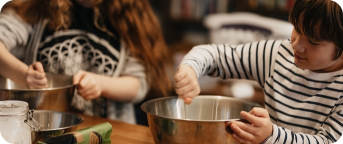
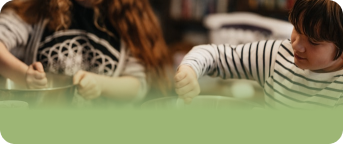
hompe page done

diff --git a/index.html b/index.html
@@ -9,33 +9,58 @@
   </head>
 
   <body>
-    <header class="flex column center justify-center yellow-gradient">
-      <a href=""><img id="logo" src="assets/Logo PNG.png" alt="Logo TreeHouse" href="index.html"></a>
-    </header>
+    <section class="flex row">
+      <img class="big" src="assets/bigbanner.png" alt="" />
 
-    <main class="">      
-      <section class="centralized flex column center">
-        <div class="banner">
-          <div class="img-stack">
-            <h1 class="item-top">A escola de inglês <br> que vai até você.</h1>
-            <img class="item-mid" src="assets/Vector yellow.png" alt="">
-            <img class="item-bottom" src="assets/kidtoys.jpg" alt="The hands of a kid playing with a lego toy">
-          </div>
-          
+      <div class="column">
+        <header class="flex column center justify-center yellow-gradient">
+          <a href=""
+            ><img
+              id="logo"
+              src="assets/Logo PNG.png"
+              alt="Logo TreeHouse"
+              href="index.html"
+          /></a>
+        </header>
 
-          <p>A Tree House é uma escola de Inglês inovadora em Curitiba que traz conforto e comodidade para que suas crinaças aprendam inglês com qualidade. Nosso metodo extremamente focado em atividades lúdicas ajuda as crianças a aprenderem inglês sem saber que estão dentro de uma aula, o que torna o ensino muito mais fácil, rápido e assertivo.</p>
-        </div>
+        <main class="grid-display">
+          <h1 class="title">
+            A escola de inglês <br />
+            que vai até você.
+          </h1>
 
-        <div>
+          <p class="text">
+            A Tree House é uma escola de Inglês inovadora em Curitiba que traz
+            conforto e comodidade para que suas crinaças aprendam inglês com
+            qualidade. Nosso metodo extremamente focado em atividades lúdicas
+            ajuda as crianças a aprenderem inglês sem saber que estão dentro de
+            uma aula, o que torna o ensino muito mais fácil, rápido e assertivo.
+          </p>
+        </main>
+
+        <div class="flex column">
           <h1>O que você procura?</h1>
-
-          <h2>Aulas em Casa</h2>
-          <a href="parents.html"><img src="assets/imgboy.png" alt="Kids cooking and having fun at home"></a>
-
-          <h2>Aulas na Escola</h2>
-          <a href="schools.html"><img src="assets/imgschool.png" alt="Kids studying at school"></a>
+          <div class="flex row space-around">
+            
+  
+            <div class="container">
+              <figcaption>Aulas em Casa</figcaption>
+                <a href="parents.html"
+                ><img
+                  src="assets/imgboy.png"
+                  alt="Kids cooking and having fun at home"
+              /></a>
+            </div>
+  
+            <div class="container">
+              <figcaption>Aulas na Escola</figcaption>
+                <a href="schools.html"
+                ><img src="assets/imgschool.png" alt="Kids studying at school"
+              /></a>
+            </div>
+          </div>
         </div>
-      </section>
+        
 
         <footer class="flex column">
           <h1 class="margin-center">Fale com a gente:</h1>
@@ -43,12 +68,12 @@
             <a href=""><button class="orange-btn">WhatsApp</button></a>
             <a href=""><button class="orange-btn">Instagram</button></a>
           </div>
-          <p class="margin-center">TreeHouse &copy 2023 - Bruno Schmaiske Quoos - <a href="site-plan/site-plan.html">Site Plan</a></p>
-
+          <p class="margin-center">
+            TreeHouse &copy 2023 - Bruno Schmaiske Quoos -
+            <a href="site-plan/site-plan.html">Site Plan</a>
+          </p>
         </footer>
-
-
-      
-    </main>
+      </div>
+    </section>
   </body>
 </html>

diff --git a/styles/index-styles.css b/styles/index-styles.css
@@ -1,6 +1,9 @@
+@import url('https://fonts.googleapis.com/css2?family=Delius&family=Poppins:wght@100;200;400&display=swap');
+
 * {
     margin: 0;
     padding: 0;
+    font-family: 'Poppins', sans-serif;
 }
 
 
@@ -15,7 +18,7 @@
 /* Header and banner */
 header {
     height: 25vh;
-    width: 100vw;
+    width: 100%;
 }
 
 #logo {
@@ -41,7 +44,9 @@ header {
 }
 .space-around{
     justify-content: space-around;
-
+}
+.space-between{
+    justify-content: space-between;
 }
 .justify-center{
     justify-content: center;
@@ -54,38 +59,56 @@ header {
 }
 
 
-/* Image Stacked Banner*/
-.img-stack{
+.big{
+    height: 100vh;
+    float: left;
+}
+
+/* Content grid*/
+.grid-display {
     display: grid;
     grid-template-columns: repeat(10, 1fr);
+    justify-content: space-around;
+    align-content: center;
+}
+
+.title {
+    grid-column: 2/10;
+    grid-row: 1/1;
+    font-size: 5em;
+    font-family: 'Delius', cursive;
+}
+.text {
+    marging-top: 50px;
+    grid-column: 2/10;
+    grid-row: 2/3;
+}
+
+
+h1{
+    margin: auto;
+}
+/* Image buttons */
+
+.container {
+    display: inline-block;
     position: relative;
-    align-items: end;
+    align-content: center;
 }
 
-.item-top{
-    margin-bottom: 10px;
-    grid-row: 2/2;
-    grid-column: 1/5;
-    z-index: 2;
+.container figcaption {
+    position: absolute;
+    font-size: 2em; 
+    left: 30px;
+    bottom: 0;
+    color: white;
 }
 
-.item-mid{
-    width: 250px;
-    grid-row: 2/2;
-    grid-column: 1/5;
-    z-index: 1;
-}
-
-.item-bottom{
-    width: 400px;
-    grid-column: 1/10;
-    grid-row: 2/2;
-}
 
 
 /* Buttons */
 a{
-    text-decoration: none;
+    text-decoration: none;    
 }
 .orange-btn {
     color: white;
@@ -105,13 +128,15 @@ a{
     border: none;
 }
 
-/* Footer */
-footer{ 
-    width: 100%;
-    margin-top: 40px;
-    background-image: linear-gradient(to top, #FFDB94, white);
+body {
+    min-height: 100vh;
+    display: flex;
+    flex-direction: column;
 }
 
-footer h1 {
-    margin-bottom: 100px;
+/* Footer */
+footer{
+    margin-top: 165px;
+    width: 100%;
+    //background-image: linear-gradient(to top, #FFDB94, white);
 }
